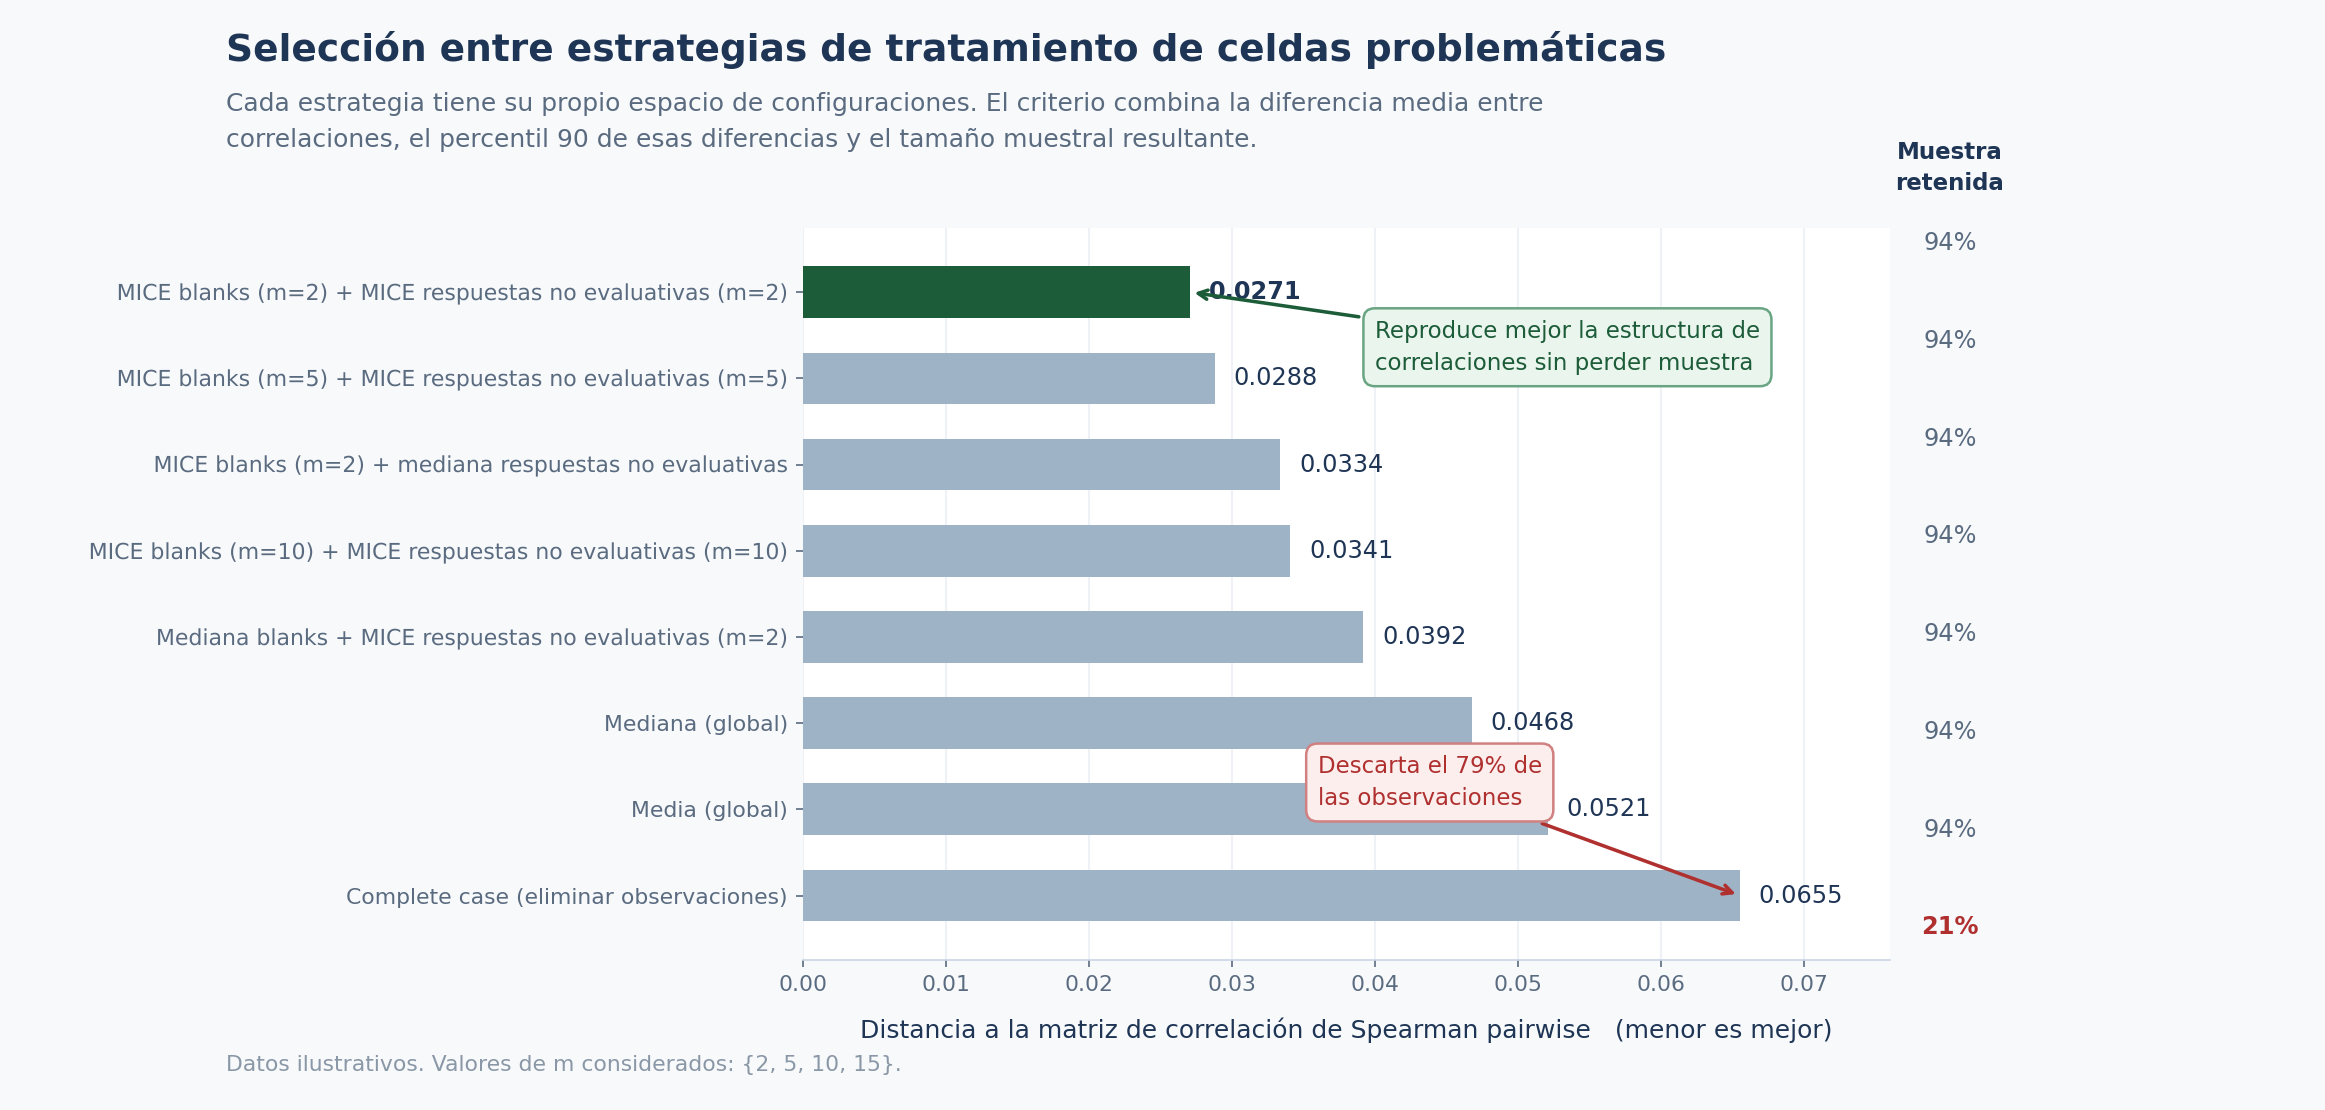
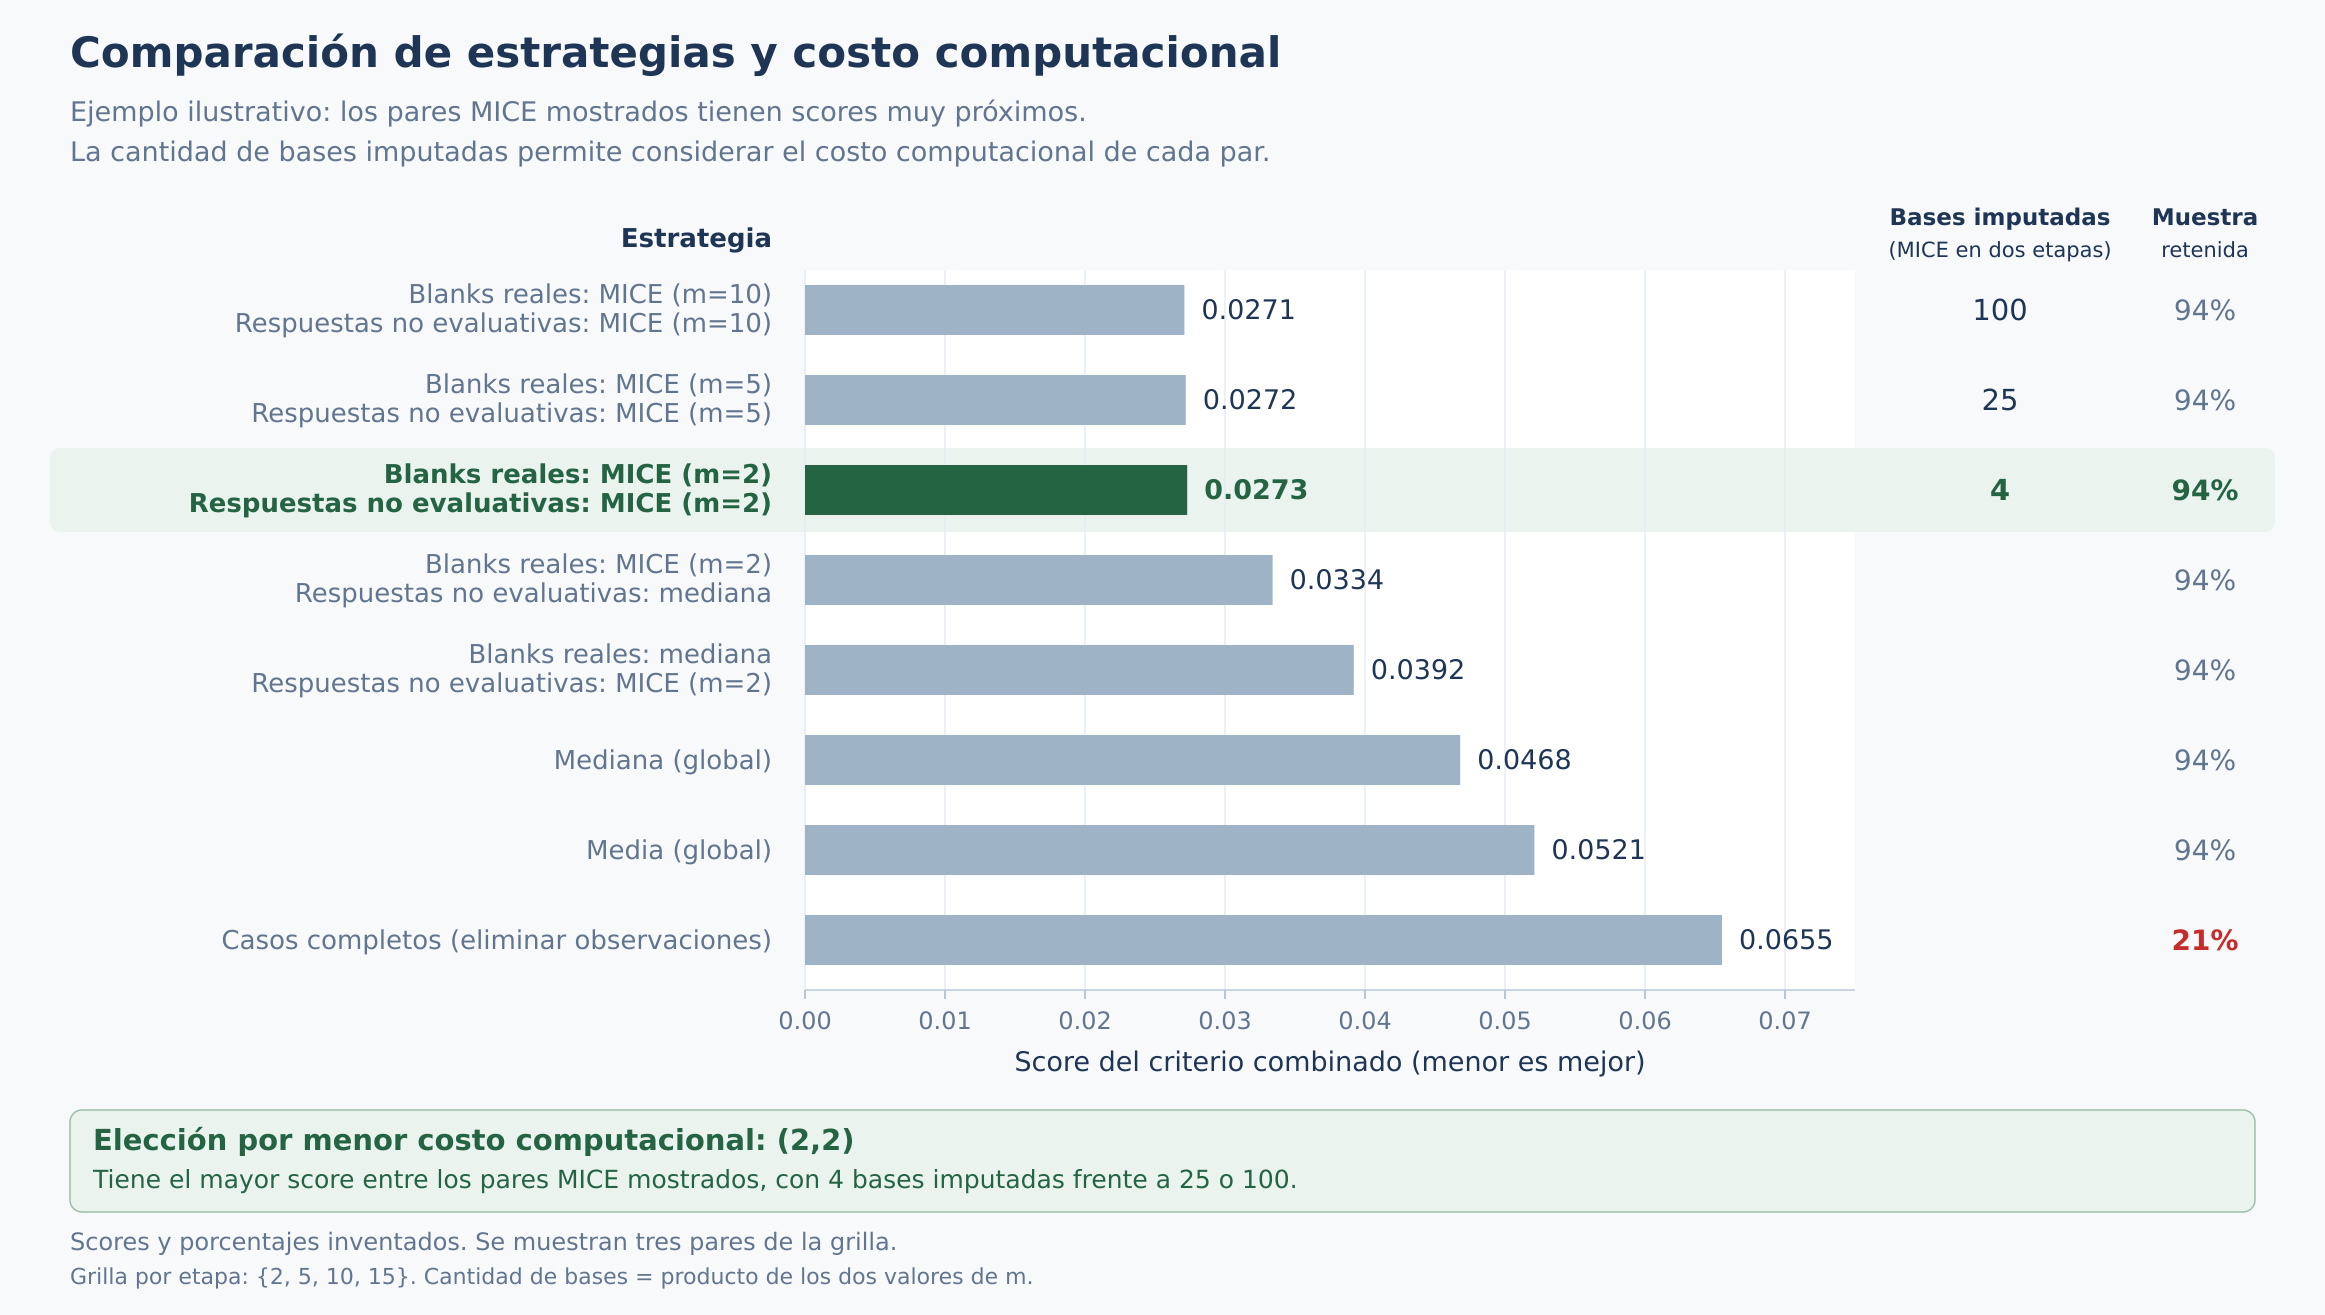
Add files via upload

diff --git a/README.en.md b/README.en.md
@@ -128,9 +128,9 @@ $$\Delta_{jk}^{P,E} = \left|R_{jk}^{P}-R_{jk}^{E}\right|.$$
 
 I considered the set of pairs
 
-$$S=\{(j,k):1\leq j<k\leq p\},$$
+$$S=\lbrace (j,k):1\leq j\lt k\leq p\rbrace ,$$
 
-where $p$ is the number of variables. The condition $j<k$ excludes the diagonal and avoids counting the same pair twice.
+where $p$ is the number of variables. The condition $j\lt k$ excludes the diagonal and avoids counting the same pair twice.
 
 I then calculated the mean of these differences:
 
@@ -140,7 +140,7 @@ I also calculated the 90th percentile of the absolute differences. The mean summ
 
 The combined criterion was defined as:
 
-$$C^{P,E} = \frac{ \lambda\,\overline{\Delta}^{P,E} + (1-\lambda)\, Q_{0.90}\!\left( \{\Delta_{jk}^{P,E}:(j,k)\in S\} \right) }{ N_E }, \qquad 0\leq\lambda\leq1,$$
+$$C^{P,E} = \frac{ \lambda\thinspace \overline{\Delta}^{P,E} + (1-\lambda)\thinspace  Q_{0.90}\negthinspace \left( \lbrace \Delta_{jk}^{P,E}:(j,k)\in S\rbrace  \right) }{ N_E }, \qquad 0\leq\lambda\leq1,$$
 
 where $N_E$ is the number of observations retained by alternative $E$, and $Q_{0.90}$ is the 90th percentile. I used $\lambda=0.5$, giving equal weight to both components.
 
@@ -148,7 +148,7 @@ For the same difference between matrices, dividing by $N_E$ favors the alternati
 
 ![Illustrative comparison of strategies for handling problematic cells.](figures/05_estrategias_en.png)
 
-*Figure 5. Illustrative comparison of strategies based on their differences from the pairwise Spearman matrix and the number of observations retained. The values and ranking of the alternatives are invented.*
+*Figure 5. Illustrative comparison of strategies using the criterion defined above. Three pairs from the MICE grid are shown to illustrate the choice based on computational cost when score differences are small. The scores and retained-sample percentages are invented.*
 
 The pairwise matrix serves as an empirical reference for the comparison. Proximity to it does not guarantee recovery of the associations that would be present in a fully observed dataset.
 
@@ -158,13 +158,13 @@ Each strategy had its own configuration choices. Some depended on the number of 
 
 For the alternative using MICE for both types of cells, the procedure had two stages: unanswered applicable items were imputed first, followed by non-evaluative responses. I defined $m_{\mathrm{blanks}}$ as the number of datasets generated in the first stage, and $m_{\mathrm{NE}}$ as the number generated in the second stage for each dataset from the first. I explored:
 
-$$m_{\mathrm{blanks}},\,m_{\mathrm{NE}}\in\{2,5,10,15\}.$$
+$$m_{\mathrm{blanks}},\thinspace m_{\mathrm{NE}}\in\lbrace 2,5,10,15\rbrace .$$
 
 In this procedure, the total number of datasets generated was:
 
-$$m_{\mathrm{total}} = m_{\mathrm{blanks}}\,m_{\mathrm{NE}}.$$
+$$m_{\mathrm{total}} = m_{\mathrm{blanks}}\thinspace m_{\mathrm{NE}}.$$
 
-The alternatives were compared using the criterion defined above, while also considering their computational cost. The final choice incorporated parsimony: when score differences were small, I prioritized a configuration that required generating fewer imputed datasets.
+The alternatives were compared using the criterion defined above, while also considering their computational cost. Within MICE, the configuration $(m_{\mathrm{blanks}},m_{\mathrm{NE}})=(2,2)$ had the highest score among the pairs evaluated. Since the differences between pairs were small under this criterion, I chose that configuration for its lower computational cost: it generated four imputed datasets in the two-stage procedure.
 
 I also considered the stochastic nature of the procedure, which meant that small differences between configurations could depend on the seeds used.
 
